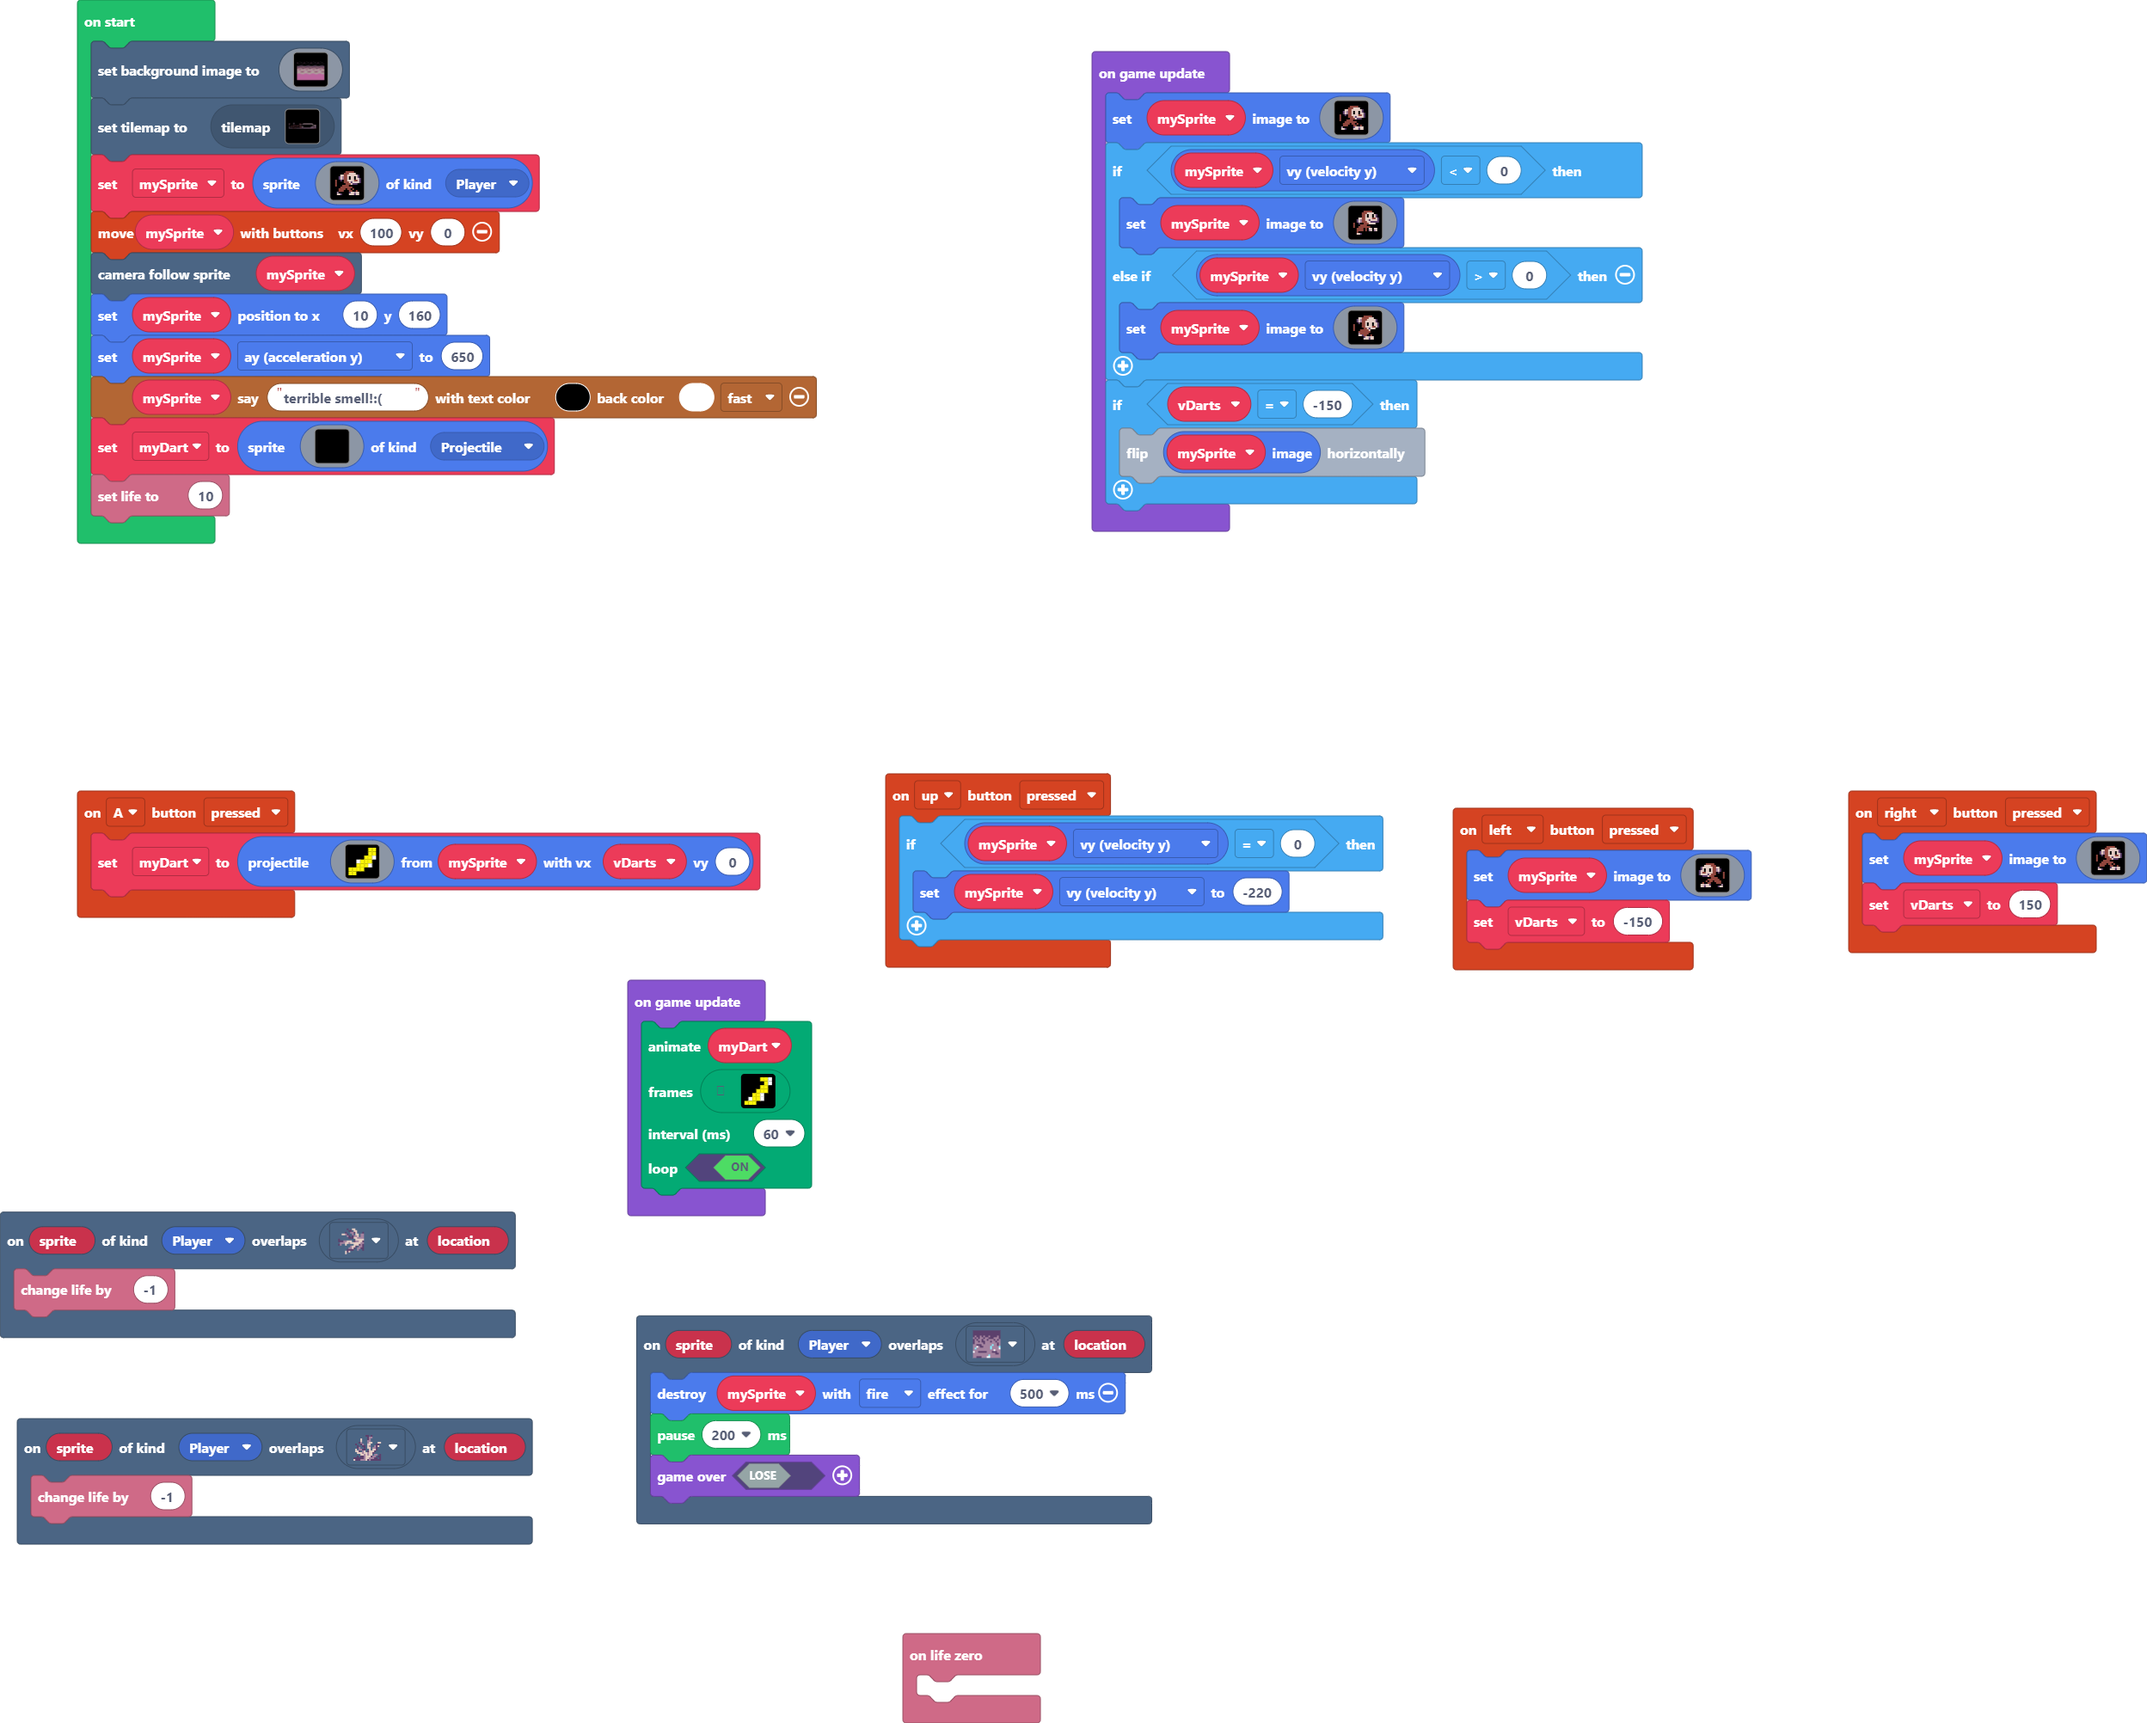
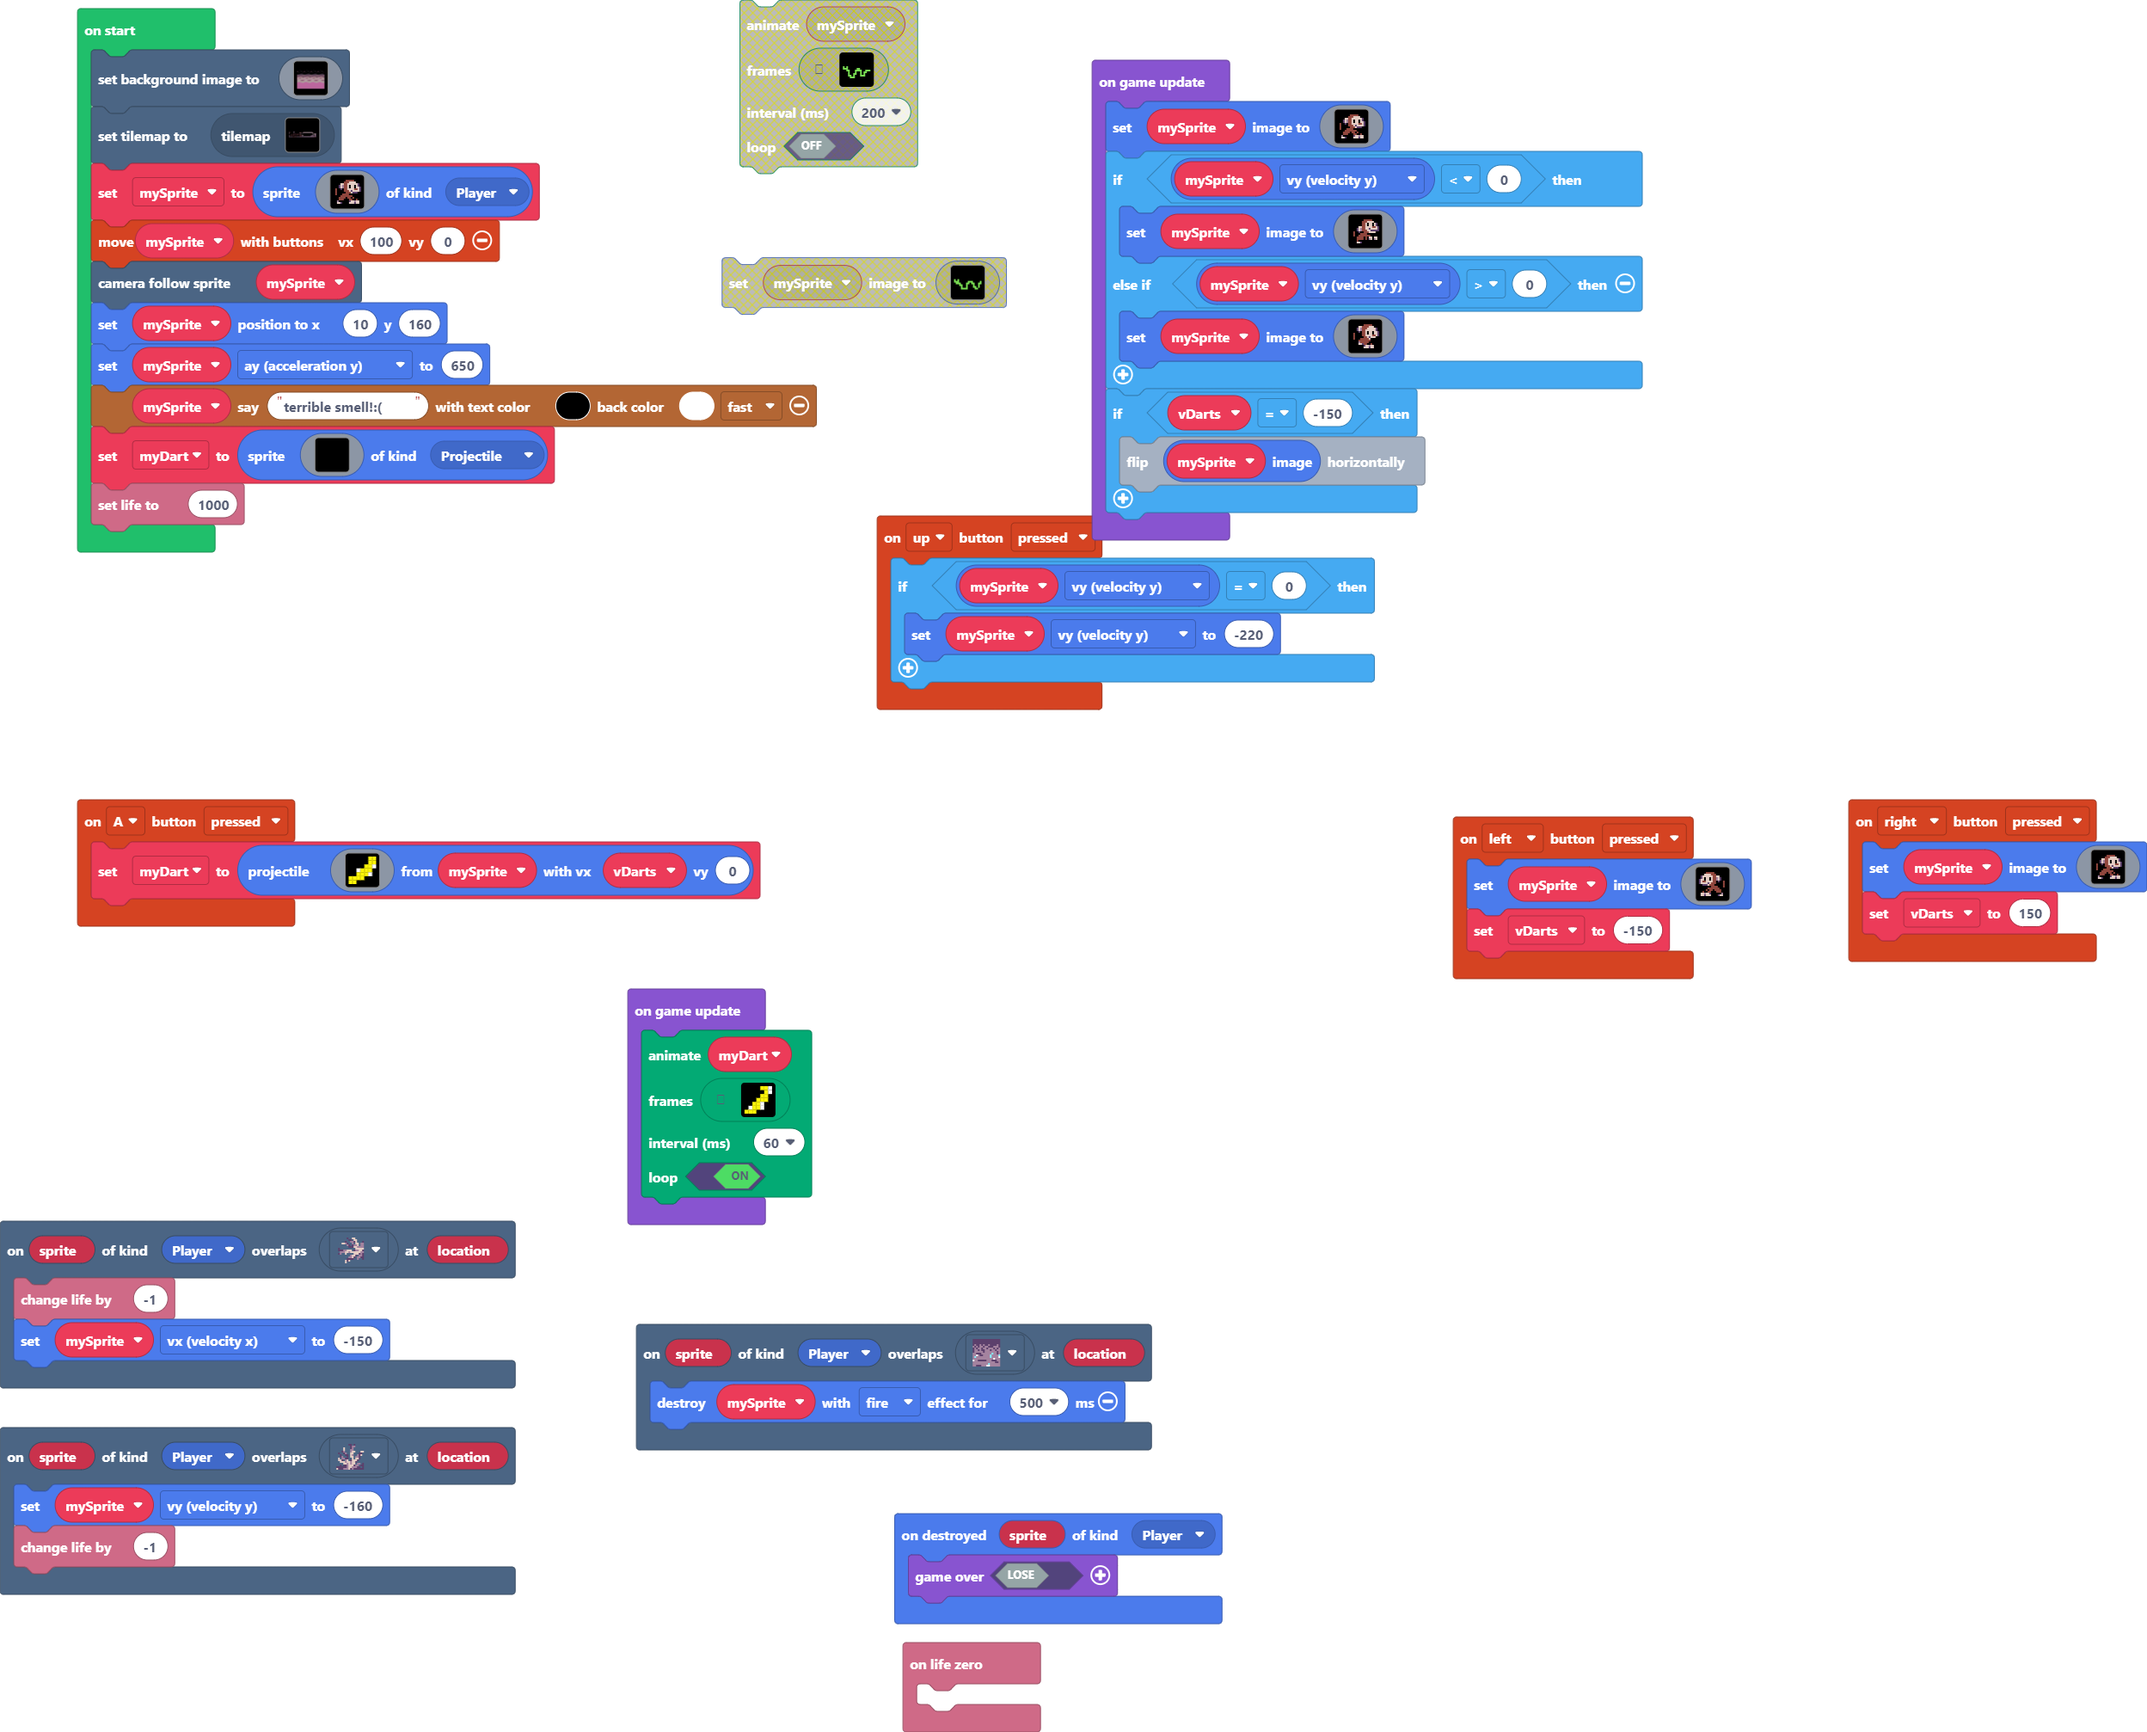
Update main.blocks, main.ts

diff --git a/main.ts b/main.ts
@@ -1,4 +1,5 @@
 scene.onOverlapTile(SpriteKind.Player, assets.tile`myTile0`, function (sprite, location) {
+    mySprite.vy = -160
     info.changeLifeBy(-1)
 })
 controller.up.onEvent(ControllerButtonEvent.Pressed, function () {
@@ -8,6 +9,7 @@ controller.up.onEvent(ControllerButtonEvent.Pressed, function () {
 })
 scene.onOverlapTile(SpriteKind.Player, assets.tile`myTile22`, function (sprite, location) {
     info.changeLifeBy(-1)
+    mySprite.vx = -150
 })
 controller.A.onEvent(ControllerButtonEvent.Pressed, function () {
     myDart = sprites.createProjectileFromSprite(img`
@@ -22,8 +24,6 @@ controller.A.onEvent(ControllerButtonEvent.Pressed, function () {
 })
 scene.onOverlapTile(SpriteKind.Player, assets.tile`myTile4`, function (sprite, location) {
     mySprite.destroy(effects.fire, 500)
-    pause(200)
-    game.over(false)
 })
 controller.left.onEvent(ControllerButtonEvent.Pressed, function () {
     mySprite.setImage(img`
@@ -69,6 +69,9 @@ controller.right.onEvent(ControllerButtonEvent.Pressed, function () {
 })
 info.onLifeZero(function () {
 	
+})
+sprites.onDestroyed(SpriteKind.Player, function (sprite) {
+    game.over(false)
 })
 let vDarts = 0
 let myDart: Sprite = null
@@ -237,7 +240,7 @@ myDart = sprites.create(img`
     ....................................
     ....................................
     `, SpriteKind.Projectile)
-info.setLife(10)
+info.setLife(1000)
 game.onUpdate(function () {
     mySprite.setImage(img`
         . . . . . . . f f f f f . . . . 
